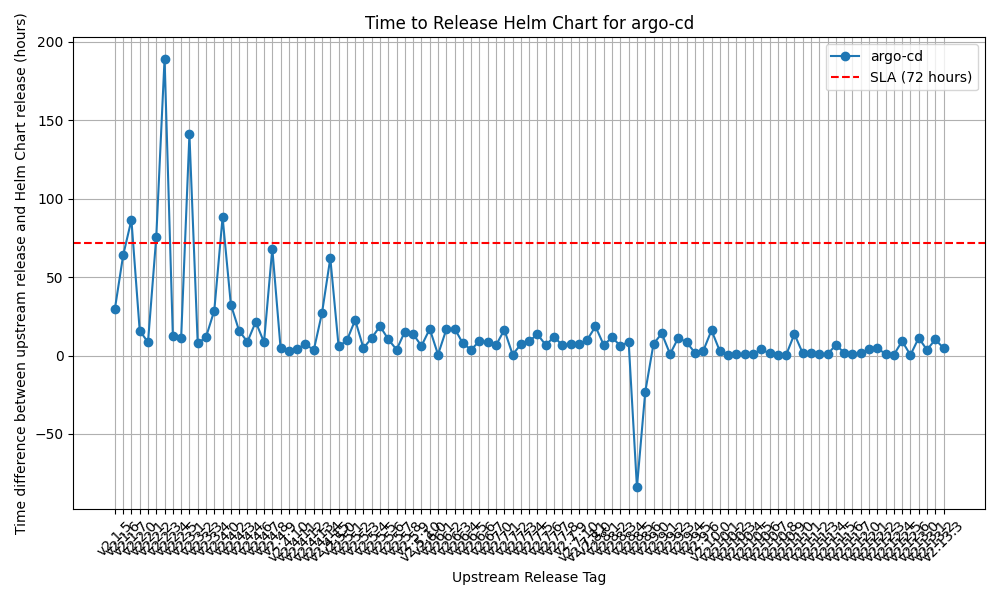
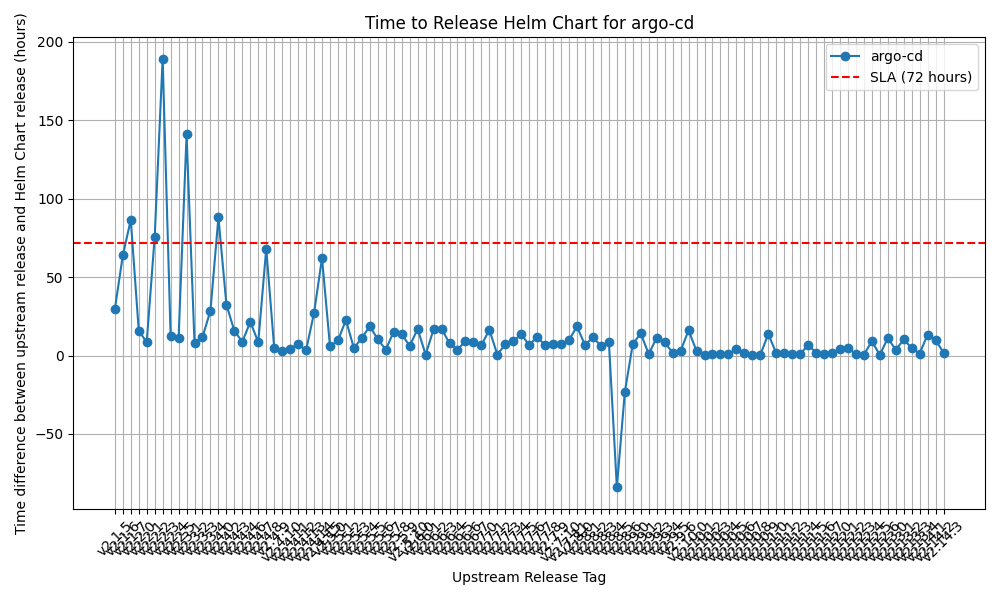
chore(github): Update release metrics (#3188)

Changed region(s): [[0.124, 0.06, 0.961, 0.96]]

diff --git a/scripts/release-analysis/README.md b/scripts/release-analysis/README.md
@@ -4,7 +4,7 @@ Compare the time of the upstream release to the time of the equivalent Helm Char
 
 
 ## How to run
-This is quite github-api-intensive, so you'll need a github PAT
+This is quite github-api-intensive, so you'll need a github PAT. The PAT only requires public read (to fetch the data from the public repos without being too rate limited).
 
 ```bash
 # Build the container
